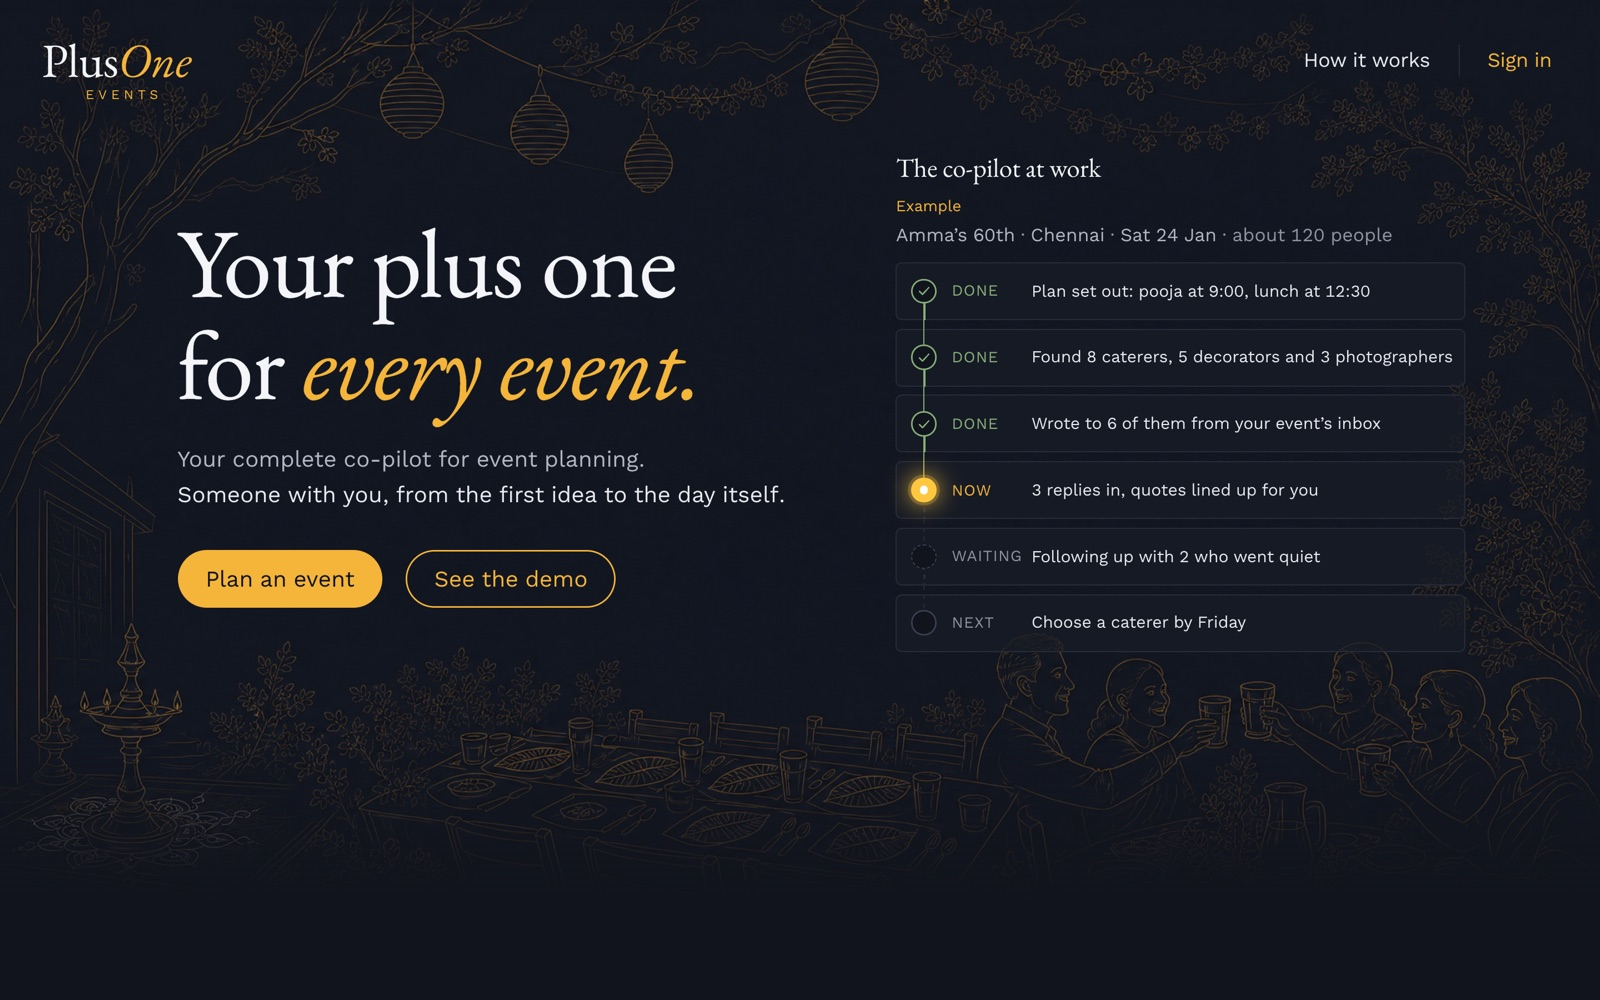
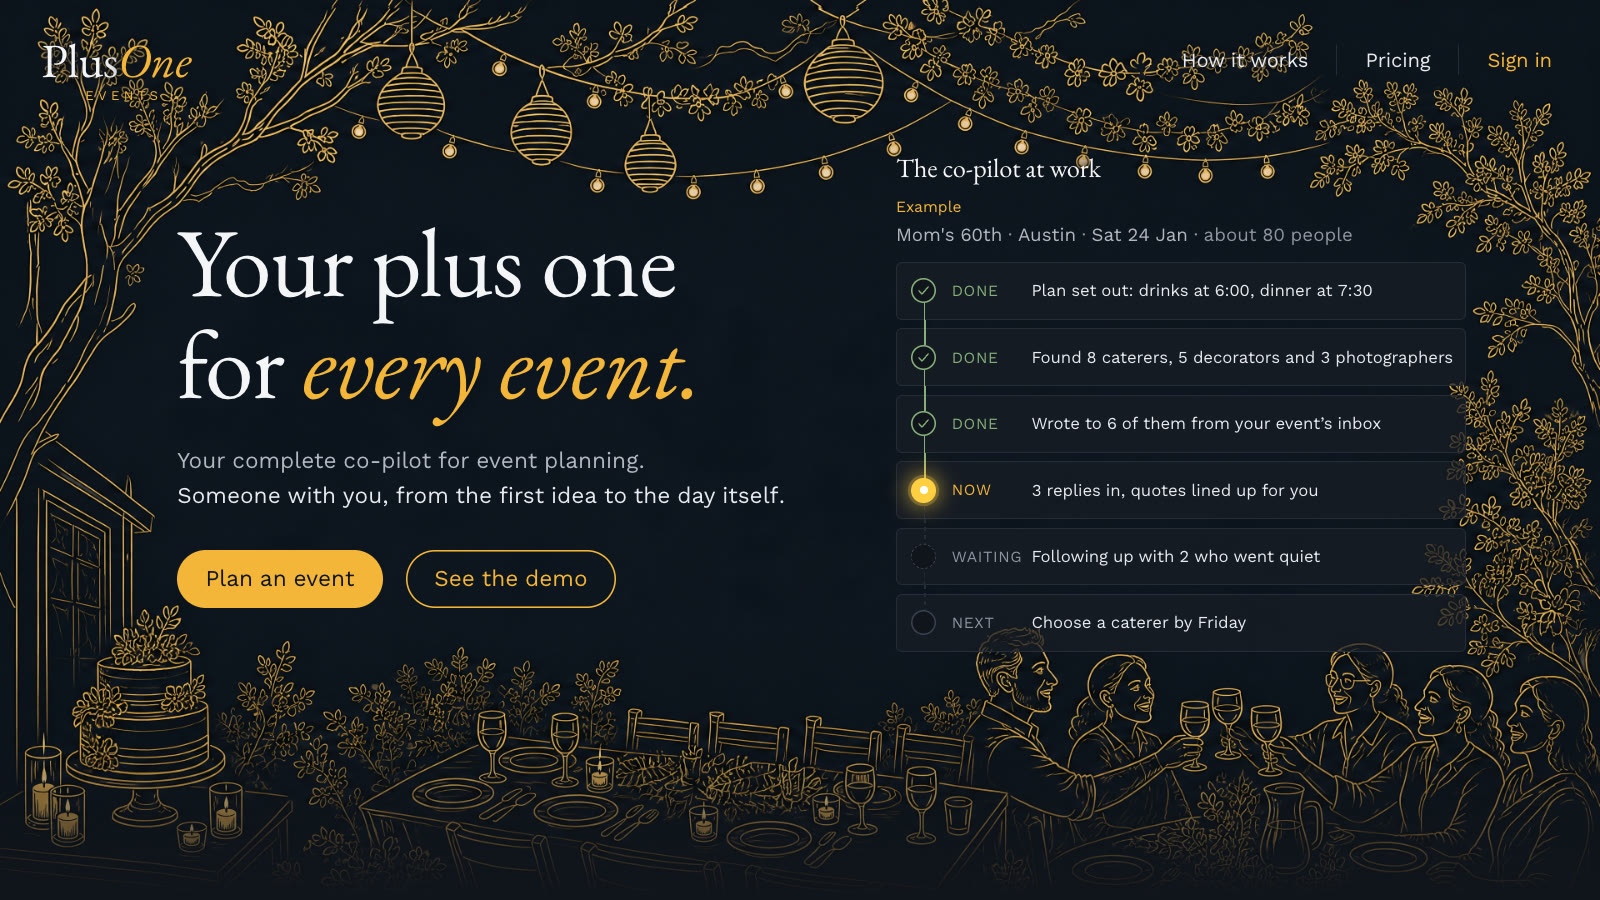
README: pricing, the theme carried between home and app, the new home page, 394 tests

diff --git a/README.md b/README.md
@@ -14,7 +14,7 @@
 ![Event](https://img.shields.io/badge/event-Meta_Global_AI_Developer_Hackathon-f4b53a?style=flat-square&labelColor=11141c)
 ![Track](https://img.shields.io/badge/track-Startup-f4b53a?style=flat-square&labelColor=11141c)
 ![Status](https://img.shields.io/badge/status-working_end_to_end-c4dfbc?style=flat-square&labelColor=11141c)
-![Tests](https://img.shields.io/badge/tests-389_passing-c4dfbc?style=flat-square&labelColor=11141c)
+![Tests](https://img.shields.io/badge/tests-394_passing-c4dfbc?style=flat-square&labelColor=11141c)
 [![License](https://img.shields.io/badge/license-FSL--1.1--ALv2-b3b7c3?style=flat-square&labelColor=11141c)](LICENSE.md)
 
 <table align="center">
@@ -65,7 +65,7 @@ Every call goes through one wrapper, `convex/lib/models.ts`. `MODEL_PROVIDER=met
 
 ## How it works
 
-<img src="assets/screens/landing.jpg" width="100%" alt="The home page: 'Your plus one for every event' beside an example of the co-pilot at work for Amma's 60th in Chennai">
+<img src="assets/screens/landing.jpg" width="100%" alt="The home page: 'Your plus one for every event' over a gold line drawing of a garden dinner, beside an example of the co-pilot at work for Mom's 60th in Austin">
 
 1. **Talk it through.** "Amma's 60th in Chennai, a homam at home and lunch for about 120." PlusOne asks for whatever it still needs, one thing at a time, reads everything back for you to confirm, and points out anything that can't be right, like a weekday that doesn't match the date or a budget missing a zero. It builds the plan only once every line is confirmed. The model only reads each message; what to ask next and when the plan is ready are fixed rules (`/new`, `convex/planningChat.ts`, with the rules in `convex/lib/planningChat.ts`). A manual form at `/new/manual` does the same step by step.
 2. **Open on Today.** The app opens on the co-pilot's route through the event: what is **done**, what is **under way**, what is **over to you** and what is **up next**, each with the button that finishes it. It is read straight from the plan, so it is instant and never disagrees with the pages it links to (`src/pages/TodayPage.tsx`, `convex/copilot.ts`). A box beside it takes a change or a question in plain words: "we're now 140 people", "find us a photographer".
@@ -101,7 +101,8 @@ The rest of the app:
 - **People planning together:** owner, planner and viewer roles, with single-use invite links that can be revoked.
 - **Emails from PlusOne:** a weekly update on Fridays that skips quiet weeks, with a way to stop it.
 - **A guided tour**, "Show me around", that points at the real controls on each page.
-- **Dark ink and marigold by default**, with a light theme of ink blue on ivory; pick Light, Dark or Device. A new event's currency follows where the visitor is, so money shows in rupees in India and dollars in the US.
+- **Dark ink and marigold by default**, with a light theme of ink blue on ivory; pick Light, Dark or Device, and the choice carries between the home page and the app. The same gold line drawing frames the home page, sign-in and the public pages, and sits faintly behind the app. A new event's currency, and the home page's example, follow where the visitor is, so money shows in rupees in India and dollars in the US.
+- **Pricing**, at [/pricing](https://plusoneevents.site/pricing): Co-pilot is free to use until launch, then ₹1,000 or $10 a month; Assisted, where a person from the PlusOne team plans with you and is on call any time, opens after launch at ₹2,500 or $25 a month (`src/pages/PricingPage.tsx`, prices in `src/lib/pricing.ts`).
 - **It installs on a phone like an app**, and a link shared to it from another app lands in a Space.
 
 ## Care taken
@@ -123,7 +124,7 @@ The rest of the app:
 |---|---|---|---|
 | Muse Spark in production | A made-up guest reply ("Both of us will come. My husband is allergic to peanuts.") read by `muse-spark-1.3` through the production backend: coming, 2 people, the peanut allergy caught, valid structured output first time; 1,214 tokens in, 880 out, $0.0053, written to `modelCalls` | 27 Oct 2026 | `npx convex run claude:readRsvpReply` against production |
 | Muse Spark's reasoning | At `reasoning_effort: low` a one-line reply used 194 reasoning tokens; capped at 400 output tokens, reasoning took 398 and the answer came back empty. Every call site allows 16,000 | 27 Oct 2026 | Two direct Chat Completions calls |
-| Tests | 389 passed in 40 files, including the quote comparison, the Meta provider switch and its fallback, the cost record, the planning conversation's rules, the board's geometry, the co-pilot's route and a contrast check of every text colour in the light and dark themes | 27 Oct 2026 | `npm test` |
+| Tests | 394 passed in 42 files, including the quote comparison, the Meta provider switch and its fallback, the cost record, the planning conversation's rules, the board's geometry, the co-pilot's route and a contrast check of every text colour in the light and dark themes | 27 Oct 2026 | `npm test` |
 | Typecheck, app and backend | Clean | 27 Oct 2026 | `npm run typecheck` |
 | The three sample events | Each opened from `/demo` for a new visitor (the birthday, `?sample=housewarming`, `?sample=office`); eleven screens captured with 0 page errors; at phone width (390 px) the page is exactly as wide as the screen, with no sideways scroll | 25 Oct 2026 | Headless Chrome (playwright-core) against the dev server and the dev backend; these are the screenshots in this README |
 | Vendor search terms, old against new | Vendors' own websites among results kept: 9 of 27 with the new short terms against 5 of 26 with the old single sentence, for about half the credits | 20 Oct 2026 | A one-off before/after run of three briefs against Firecrawl |
